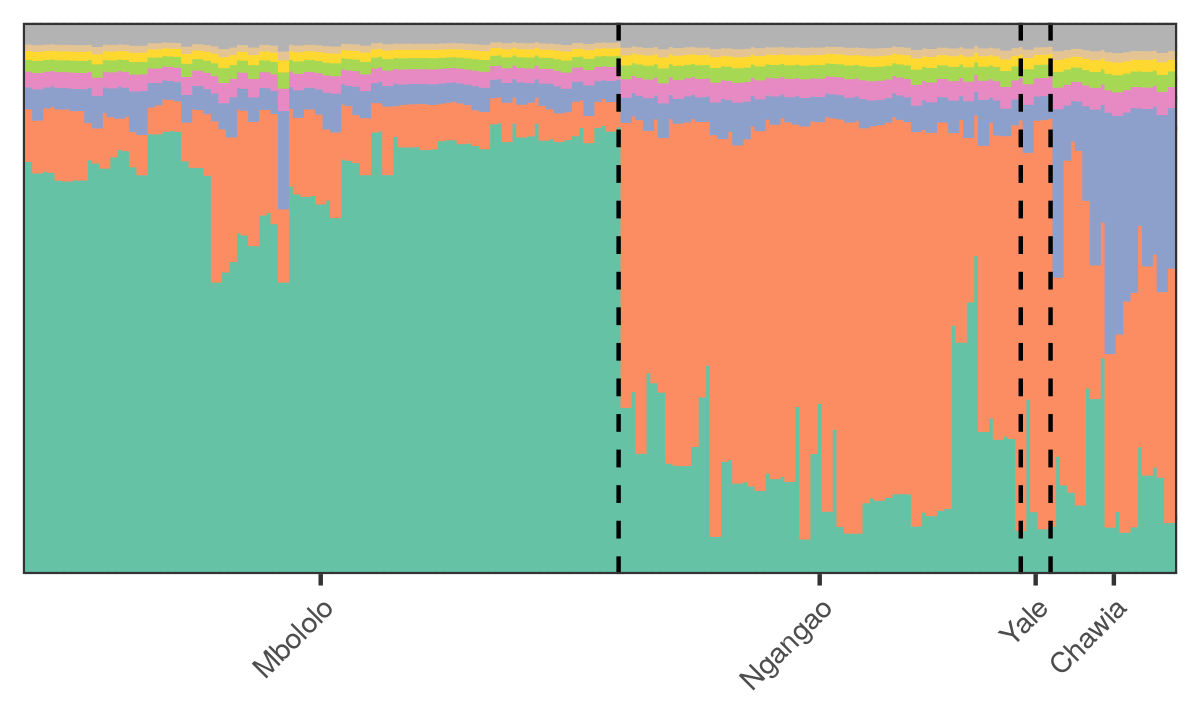
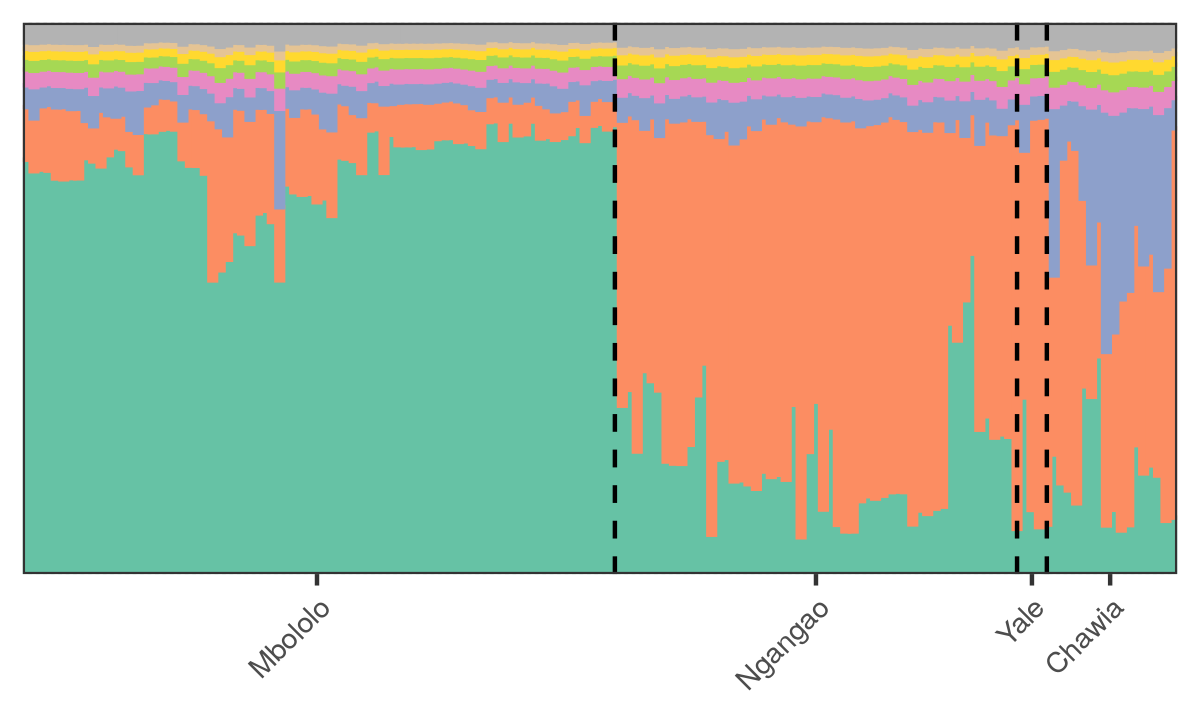
structure refits figure

diff --git a/writing/journal_paper/structure_experiments.tex b/writing/journal_paper/structure_experiments.tex
@@ -83,11 +83,26 @@
     For the all individuals from the Chawia region (C), we examine the inferred purple proportion.
     (Left column) The worst-case $L_\infty$ negative perturbation in grey, 
     plotted against the 
-    influence function times the prior (scaled to have $L_\infty$ norm equal to 1). 
+    prior-weighted influence function (scaled to have $L_\infty$ norm equal to 1). 
     (Middle column) The effect of this perturbation on the prior density. 
     (Right column) Effects on the inferred admixture. }\label{fig:stru_func_sens}
 \end{figure}
 
 
 \end{knitrout}
+
+
+\begin{knitrout}
+\definecolor{shadecolor}{rgb}{0.969, 0.969, 0.969}\color{fgcolor}\begin{figure}[!h]
+
+{\centering \includegraphics[width=0.980\linewidth,height=1.019\linewidth]{figure/stru_func_sens_admix-1} 
+
+}
+
+\caption[admixtures ]{admixtures }\label{fig:stru_func_sens_admix}
+\end{figure}
+
+
+\end{knitrout}
+
 
